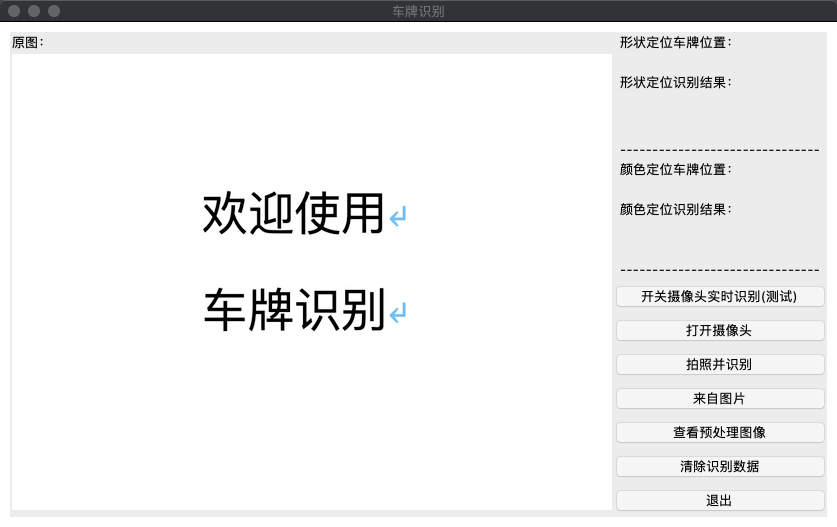
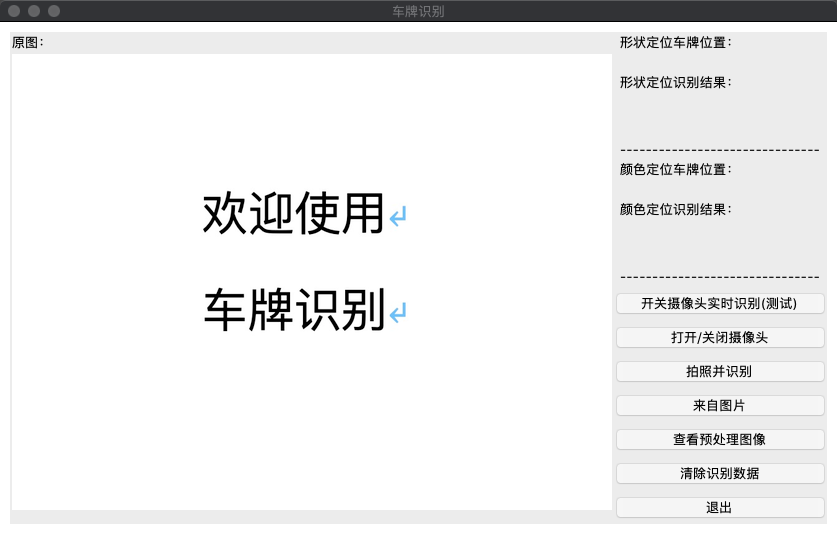
update readme

diff --git a/main.py b/main.py
@@ -122,6 +122,8 @@ class Surface(ttk.Frame):
             self.i = self.i + 1
         self.i = 0
         self.row = 1
+        first_row = w_sheet.row(self.row)
+        first_row.set_style(tall_style)
         w.save(excel_path2)
 
 
@@ -250,10 +252,10 @@ class Surface(ttk.Frame):
         alignment.vert = xlwt.Alignment.VERT_CENTER
         style.alignment = alignment # 给样式添加文字居中属性
         tall_style = xlwt.easyxf('font:height 720')  # 36pt
+        first_row = w_sheet.row(self.row)
+        first_row.set_style(tall_style)
         while (self.i <= 4):
             clo = self.i
-            first_row = w_sheet.row(self.i)
-            first_row.set_style(tall_style)
             w_sheet.write(self.row, clo, the_value[self.i], style)
             self.i = self.i + 1
         if (self.i == 5):

diff --git a/README.md b/README.md
@@ -29,6 +29,6 @@ python main.py
 由于样本数据来自网络，因此识别率只是看看而已。但清楚的图片还是可以识别出来的。  \
 ![演示](pic/3.png)
 ## 曲线解救摄像头  
-![界面](pic/1.jpg)
+![界面](pic/1.png)
 ## 欢迎界面
 ![欢迎界面](pic/2.png)
